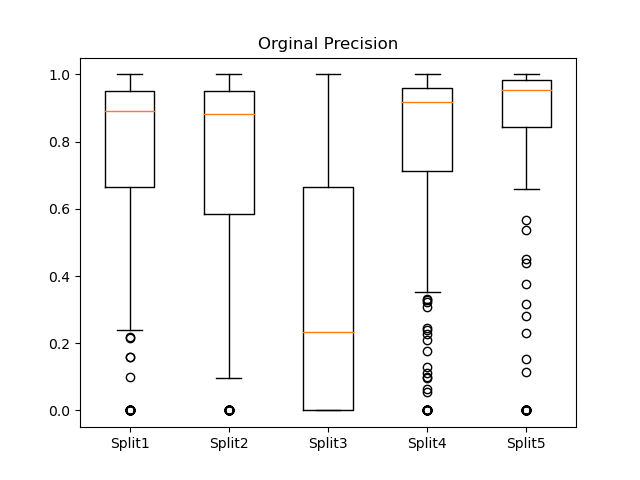
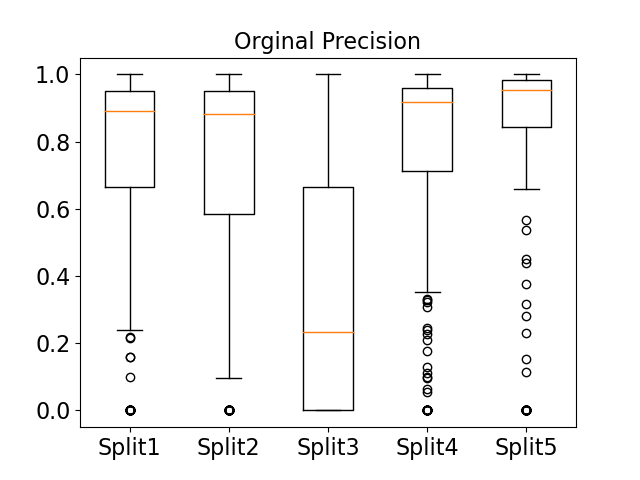
Final version

diff --git a/helper_scripts/CBIS-DDSM_parser.py b/helper_scripts/CBIS-DDSM_parser.py
@@ -185,14 +185,14 @@ def process_dataset(df, save_train_path):
     #im1.show()
     #im1 = ImageOps.equalize(im1, mask=None)
     #im1.show()
-    im1 = im1.resize((256, 256))
+    #im1 = im1.resize((256, 256))
 
     #im2.show()
-    im2 = im2.resize((256, 256))
+    #im2 = im2.resize((256, 256))
     image_save_path = save_train_path + str(image_number) + ".tif"
     mask_save_path = save_train_path + str(image_number) + "_mask.tif"
     im1.save(image_save_path, quality=100)
-    #im2.save(mask_save_path, quality=100)
+    im2.save(mask_save_path, quality=100)
 
     image_number = image_number + 1
 
@@ -209,18 +209,37 @@ image_view_CC = 'CC'
 
 
 # Mass breast_density
-mass_train_data = clear_mass(mass_train_data)
-mass_train_data = mass_train_data.loc[mass_train_data['assessment'] > 3]
-mass_train_data = mass_train_data.loc[mass_train_data['image_view'] == image_view_CC]
-mass_train_data = mass_train_data[mass_train_data['mass_shape'].isin(mass_shape)]
+#mass_train_data = pd.read_csv(path + "mass_case_description_test_set.csv")
+mass_train_data1 = clear_mass(mass_train_data)
+mass_train_data1 = mass_train_data1.loc[mass_train_data1['assessment'] > 3]
+mass_train_data1 = mass_train_data1.loc[(mass_train_data1['breast_density'] == 1) | (mass_train_data1['breast_density'] == 2)]
+#mass_train_data1 = mass_train_data1.loc[mass_train_data1['image_view'] == image_view_MLO]
+#mass_train_data1 = mass_train_data1[mass_train_data1['mass_shape'].isin(mass_shape)]
 
-mass_test_data = clear_mass(mass_test_data)
-mass_test_data = mass_test_data.loc[mass_test_data['assessment'] > 3]
-mass_test_data = mass_test_data.loc[mass_test_data['image_view'] == image_view_CC]
-mass_test_data = mass_test_data[mass_test_data['mass_shape'].isin(mass_shape)]
+#mass_train_data2 = clear_mass(mass_train_data)
+#mass_train_data2 = mass_train_data2.loc[mass_train_data2['assessment'] <= 3]
+#mass_train_data2 = mass_train_data2.loc[(mass_train_data2['breast_density'] == 1) | (mass_train_data2['breast_density'] == 2)]
+#mass_train_data2 = mass_train_data2.loc[mass_train_data2['image_view'] == image_view_MLO]
+#mass_train_data2 = mass_train_data2[mass_train_data2['mass_shape'].isin(mass_shape)]
 
-print(len(mass_test_data))
-print(len(mass_train_data))
+#mass_test_data1 = clear_mass(mass_test_data)
+#mass_test_data1 = mass_test_data1.loc[mass_test_data1['assessment'] > 3]
+#mass_test_data1 = mass_test_data1.loc[(mass_test_data1['breast_density'] == 1) | (mass_test_data1['breast_density'] == 2)]
 
-process_dataset(mass_test_data, "E:/experiment2/oval_cc/test/")
-process_dataset(mass_train_data, "E:/experiment2/oval_cc/train/")
+
+#mass_test_data2 = clear_mass(mass_test_data)
+#mass_test_data2 = mass_test_data2.loc[mass_test_data2['assessment'] <= 3]
+#mass_test_data2 = mass_test_data2.loc[(mass_test_data2['breast_density'] == 1) | (mass_test_data2['breast_density'] == 2)]
+#mass_test_data2 = pd.read_csv(path + "mass_case_description_test_set.csv")
+#mass_test_data2 = clear_mass(mass_test_data2)
+#mass_test_data2 = mass_test_data2.loc[mass_test_data2['assessment'] > 3]
+#mass_test_data2 = mass_test_data2.loc[(mass_test_data2['breast_density'] == 3) | (mass_test_data2['breast_density'] == 4)]
+#mass_test_data = mass_test_data.loc[mass_test_data['image_view'] == image_view_CC]
+#mass_test_data = mass_test_data[mass_test_data['mass_shape'].isin(mass_shape)]
+
+print(len(mass_train_data1))
+#print(len(mass_train_data2))
+
+process_dataset(mass_train_data1, "E:/cbisddsm_dataset_examples/")
+#process_dataset(mass_train_data2, "E:/experiment3/ddsm_mlo/heal/")
+#process_dataset(mass_test_data2, "E:/experiment3/cbisddsm_dataset_examples/test34/")

diff --git a/helper_scripts/plots.py b/helper_scripts/plots.py
@@ -10,7 +10,7 @@ def get_number(str):
   return float(str)
 
 path = 'E:/metrices'
-cat = 'Filter'
+cat = 'Greyscale'
 
 onlyfiles = [join(path, f) for f in listdir(path) if isfile(join(path, f)) and cat.lower() in f]
 print(onlyfiles)
@@ -64,6 +64,18 @@ for file in onlyfiles:
     mse_arr.append(split_mse)
 
 def draw_plot(array, name, category = ''):
+  SMALL_SIZE = 16
+  MEDIUM_SIZE = 18
+  BIGGER_SIZE = 20
+
+  plt.rc('font', size=SMALL_SIZE)  # controls default text sizes
+  plt.rc('axes', titlesize=SMALL_SIZE)  # fontsize of the axes title
+  plt.rc('axes', labelsize=MEDIUM_SIZE)  # fontsize of the x and y labels
+  plt.rc('xtick', labelsize=SMALL_SIZE)  # fontsize of the tick labels
+  plt.rc('ytick', labelsize=SMALL_SIZE)  # fontsize of the tick labels
+  plt.rc('legend', fontsize=SMALL_SIZE)  # legend fontsize
+  plt.rc('figure', titlesize=BIGGER_SIZE)  # fontsize of the figure title
+
   fig, ax = plt.subplots()
   ax.boxplot(array, labels=['Split1', 'Split2', 'Split3', 'Split4', 'Split5'])
 
@@ -72,15 +84,15 @@ def draw_plot(array, name, category = ''):
   plt.savefig("./plots/" + title.replace(' ', '_') + ".png")
   #plt.show()
 
-#draw_plot(iou_arr, 'IOU', cat)
-#draw_plot(precision_arr, 'Precision', cat)
-#draw_plot(recall_arr, 'Recall', cat)
-#draw_plot(accuracy_arr, 'Accuracy', cat)
-#draw_plot(dice_coef_arr, 'Dice Coef', cat)
-#draw_plot(mse_arr, 'MSE', cat)
+draw_plot(iou_arr, 'IOU', cat)
+draw_plot(precision_arr, 'Precision', cat)
+draw_plot(recall_arr, 'Recall', cat)
+draw_plot(accuracy_arr, 'Accuracy', cat)
+draw_plot(dice_coef_arr, 'Dice Coef', cat)
+draw_plot(mse_arr, 'MSE', cat)
 
-mean_arr = []
-for arr in dice_coef_arr:
-  mean_arr.append(np.median(arr))
-
-print(np.max(mean_arr))
+# mean_arr = []
+# for arr in dice_coef_arr:
+#   mean_arr.append(np.median(arr))
+#
+# print(np.max(mean_arr))

diff --git a/helper_scripts/plots_ddsm.py b/helper_scripts/plots_ddsm.py
@@ -9,7 +9,7 @@ def get_number(str):
 
   return float(str)
 
-file = 'E:/results_ddsm.txt'
+file = 'E:/examples/den12.txt'
 
 iou_arr = []
 precision_arr = []
@@ -52,7 +52,21 @@ with open(file) as f:
     split_mse.append(mse)
 
 def draw_plot(array, name):
+  SMALL_SIZE = 14
+  MEDIUM_SIZE = 16
+  BIGGER_SIZE = 18
+
+  plt.rc('font', size=SMALL_SIZE)  # controls default text sizes
+  plt.rc('axes', titlesize=SMALL_SIZE)  # fontsize of the axes title
+  plt.rc('axes', labelsize=MEDIUM_SIZE)  # fontsize of the x and y labels
+  plt.rc('xtick', labelsize=SMALL_SIZE)  # fontsize of the tick labels
+  plt.rc('ytick', labelsize=SMALL_SIZE)  # fontsize of the tick labels
+  plt.rc('legend', fontsize=SMALL_SIZE)  # legend fontsize
+  plt.rc('figure', titlesize=BIGGER_SIZE)  # fontsize of the figure title
+
+
   fig, ax = plt.subplots()
+  fig.autofmt_xdate(rotation=45)
   ax.boxplot(array, labels=['Iou', 'Precision', 'Recall', 'Accuracy', 'Dice_coef', 'MSE'])
 
   title = name
@@ -61,6 +75,6 @@ def draw_plot(array, name):
   #plt.show()
 
 array = [split_iou, split_precision, split_recall, split_accuracy, split_dice_coef, split_mse]
-draw_plot(array, 'CBISDDSM density=1,2 metirces')
+draw_plot(array, 'CBISDDSM density=1,2')
 
 

diff --git a/helper_scripts/mri_mask.py b/helper_scripts/mri_mask.py
@@ -35,6 +35,10 @@ def segment_breast(img, low_int_threshold=.05, crop=True):
 
 path = 'E:\\mri\\train\\TCGA_CS_4942_19970222\\TCGA_CS_4942_19970222_9.tif'
 
+test = Image.open(path).convert('RGB')
+test2 = np.array(test)
+test3 = np.transpose(test2, [2, 0, 1])
+test4 = np.transpose(test3, [1, 2, 0])
 img = cv2.imread(path)
 img = cv2.cvtColor(np.array(img), cv2.COLOR_BGR2GRAY)
 mask = segment_breast(np.array(img))
